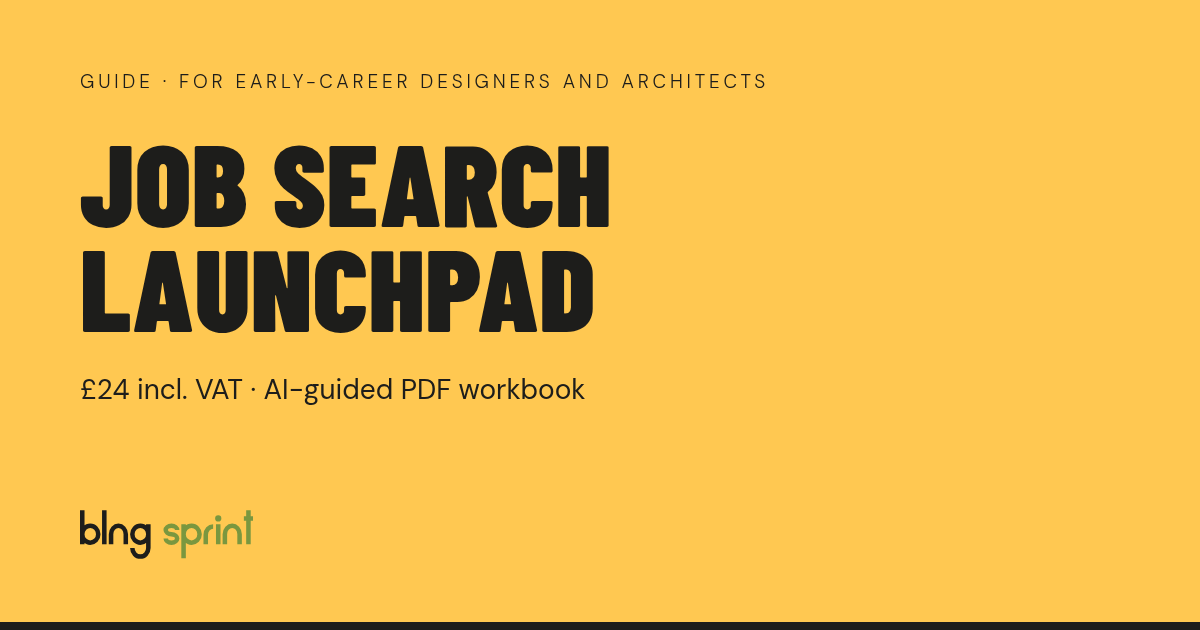
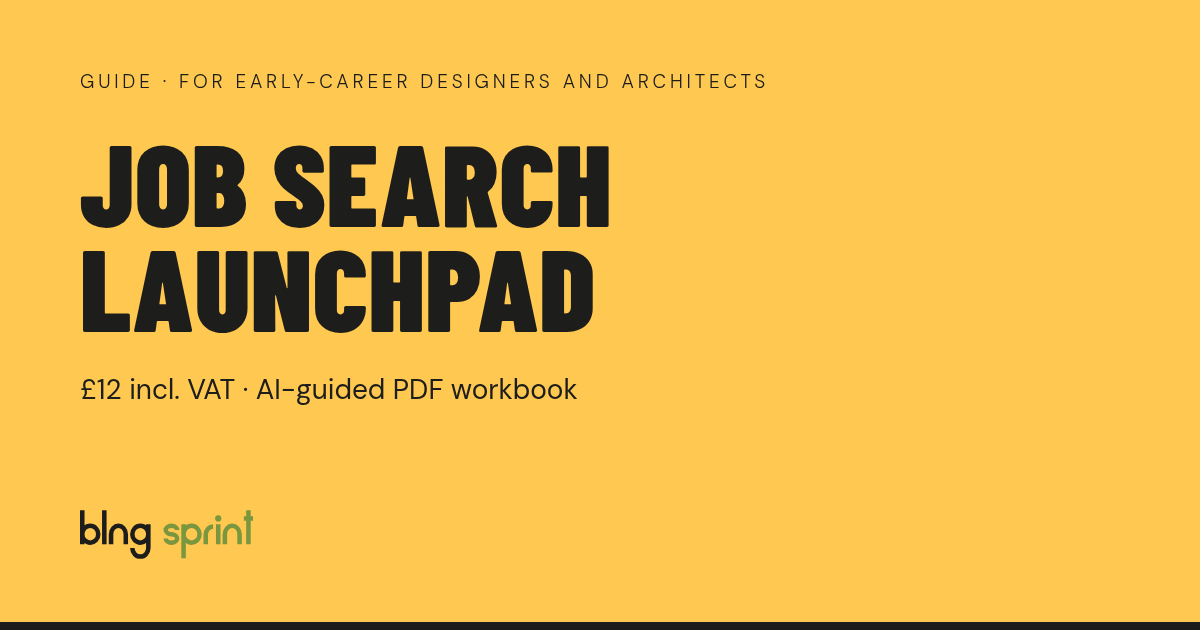
v52: Job Search Launchpad £12 + tighter mobile hero (#40)

Changed region(s): [[0.0617, 0.6032, 0.4933, 0.6635]]

diff --git a/sprints/job-search-launchpad/index.html b/sprints/job-search-launchpad/index.html
@@ -4,12 +4,12 @@
 <meta charset="utf-8">
 <meta name="viewport" content="width=device-width, initial-scale=1">
 <title>Job Search Launchpad: workbook by AA, Bartlett and ETH tutors | blng sprint</title>
-<meta name="description" content="A short guided PDF workbook by architects who have tutored at the AA, the Bartlett and ETH Zürich. For early-career designers and architects: take stock and name your next step. £24 incl. VAT.">
+<meta name="description" content="A short guided PDF workbook by architects who have tutored at the AA, the Bartlett and ETH Zürich. For early-career designers and architects: take stock and name your next step. £12 incl. VAT.">
 <link rel="canonical" href="https://sprint.blng.studio/sprints/job-search-launchpad/">
 <meta property="og:type" content="website">
 <meta property="og:site_name" content="blng sprint">
 <meta property="og:title" content="Job Search Launchpad: workbook by AA, Bartlett and ETH tutors | blng sprint">
-<meta property="og:description" content="A short guided PDF workbook by architects who have tutored at the AA, the Bartlett and ETH Zürich. For early-career designers and architects: take stock and name your next step. £24 incl. VAT.">
+<meta property="og:description" content="A short guided PDF workbook by architects who have tutored at the AA, the Bartlett and ETH Zürich. For early-career designers and architects: take stock and name your next step. £12 incl. VAT.">
 <meta property="og:url" content="https://sprint.blng.studio/sprints/job-search-launchpad/">
 <meta property="og:image" content="https://sprint.blng.studio/assets/og/guide-job-search-launchpad.png">
 <meta property="og:image:width" content="1200">
@@ -72,7 +72,7 @@
    "isPartOf": {
     "@id": "https://sprint.blng.studio/#website"
    },
-   "description": "A short guided PDF workbook by architects who have tutored at the AA, the Bartlett and ETH Zürich. For early-career designers and architects: take stock and name your next step. £24 incl. VAT.",
+   "description": "A short guided PDF workbook by architects who have tutored at the AA, the Bartlett and ETH Zürich. For early-career designers and architects: take stock and name your next step. £12 incl. VAT.",
    "mainEntity": [
     {
      "@type": "Question",
@@ -103,7 +103,7 @@
      "name": "Do I get a VAT receipt?",
      "acceptedAnswer": {
       "@type": "Answer",
-      "text": "Yes. The £24 includes VAT, and you get a receipt by email after you pay."
+      "text": "Yes. The £12 includes VAT, and you get a receipt by email after you pay."
      }
     },
     {
@@ -132,7 +132,7 @@
    "@id": "https://sprint.blng.studio/sprints/job-search-launchpad/#product",
    "name": "Job Search Launchpad",
    "url": "https://sprint.blng.studio/sprints/job-search-launchpad/",
-   "description": "A short guided PDF workbook by architects who have tutored at the AA, the Bartlett and ETH Zürich. For early-career designers and architects: take stock and name your next step. £24 incl. VAT.",
+   "description": "A short guided PDF workbook by architects who have tutored at the AA, the Bartlett and ETH Zürich. For early-career designers and architects: take stock and name your next step. £12 incl. VAT.",
    "category": "PDF workbook",
    "additionalProperty": [
     {
@@ -152,14 +152,14 @@
    "offers": {
     "@type": "Offer",
     "url": "https://sprint.blng.studio/sprints/job-search-launchpad/",
-    "description": "£24 incl. VAT",
-    "price": "24",
+    "description": "£12 incl. VAT",
+    "price": "12",
     "priceCurrency": "GBP",
     "priceSpecification": {
      "@type": "PriceSpecification",
      "priceCurrency": "GBP",
      "valueAddedTaxIncluded": true,
-     "price": "24"
+     "price": "12"
     },
     "availability": "https://schema.org/InStock",
     "seller": {
@@ -203,7 +203,7 @@
 <link rel="apple-touch-icon" href="/apple-touch-icon.png">
 <link rel="preload" href="/assets/fonts/dm-sans-latin-normal.woff2" as="font" type="font/woff2" crossorigin>
 <link rel="stylesheet" href="/assets/tokens.css?v=e18b43dacc">
-<link rel="stylesheet" href="/assets/site.css?v=5b4845be44">
+<link rel="stylesheet" href="/assets/site.css?v=f87eb7f1eb">
 <script src="/assets/site.js" defer></script>
 </head>
 <body class="page-sprint page-guide">
@@ -222,10 +222,11 @@
 <main id="main">
 <header class="hero"><p class="eyebrow">Guide · for early-career designers and architects</p>
 <h1>Get your job search unstuck in 45 minutes.</h1><ul class="client-chips page-clients" aria-label="For" role="list"><li class="client-chip client-emerging-architects" style="--chip-bg:#E6EFF5;--chip-line:#2F6488;--chip-ink:#1F4560">Graduates &amp; early career</li></ul>
+<p>Find out what's holding your applications back, and what to do about it this week.</p>
+<p><strong>£12 incl. VAT · Instant PDF download</strong></p>
+<p class="actions"><a class="btn btn-buy" href="https://payments-eu1.hubspot.com/payments/pzjgHTcVyWwCkY4" rel="noopener">Buy now</a></p>
 <p>Prompts written by architects who have tutored at the AA, the Bartlett and ETH Zürich. Paste them into any chat assistant and it becomes your personal job-search coach. It asks the questions a tutor would and shows you where your applications are falling short.</p>
 <ul class="guide-previews" role="list"><li class="guide-preview"><a class="guide-zoom" href="/assets/img/guides/job-search-launchpad-page-01-large.jpg" data-caption="The cover" aria-haspopup="dialog"><img src="/assets/img/guides/job-search-launchpad-page-01.jpg" width="900" height="1273" alt="The cover of the Job Search Launchpad workbook: the title in large black capitals on yellow" loading="lazy" decoding="async"><span class="guide-zoom-badge" aria-hidden="true"></span><span class="visually-hidden"> (page 1 of 3: open a larger view)</span></a><span class="guide-preview-caption">The cover</span></li><li class="guide-preview"><a class="guide-zoom" href="/assets/img/guides/job-search-launchpad-page-06-large.jpg" data-caption="Exercise 1, Take stock: questions and space to write" aria-haspopup="dialog"><img src="/assets/img/guides/job-search-launchpad-page-06.jpg" width="900" height="1273" alt="The Take stock page of Exercise 1, with questions and space to write about your academic projects, practice experience, interests, feedback you&#x27;ve had and practical constraints" loading="lazy" decoding="async"><span class="guide-zoom-badge" aria-hidden="true"></span><span class="visually-hidden"> (page 2 of 3: open a larger view)</span></a><span class="guide-preview-caption">Exercise 1, Take stock: questions and space to write</span></li><li class="guide-preview"><a class="guide-zoom" href="/assets/img/guides/job-search-launchpad-page-14-large.jpg" data-caption="My starting point: everything on one page" aria-haspopup="dialog"><img src="/assets/img/guides/job-search-launchpad-page-14.jpg" width="900" height="1273" alt="The My starting point page, with space for what you have to work with, possible directions to explore, three questions to investigate and one small next action" loading="lazy" decoding="async"><span class="guide-zoom-badge" aria-hidden="true"></span><span class="visually-hidden"> (page 3 of 3: open a larger view)</span></a><span class="guide-preview-caption">My starting point: everything on one page</span></li></ul>
-<p><strong>£24 incl. VAT · Instant PDF download</strong></p>
-<p class="actions"><a class="btn btn-buy" href="https://payments-eu1.hubspot.com/payments/pzjgHTcVyWwCkY4" rel="noopener">Buy now</a></p>
 </header><section><h2>Who it's for</h2>
 <p>Graduates, Part 1 and Part 2 students and early-career designers and architects who aren't sure where to start their job search. If you're about to rewrite your portfolio or send another application, the workbook helps you take stock first. It's reflection, not careers advice: you do the thinking, in your own words.</p>
 </section><section><h2>What's inside</h2>
@@ -244,7 +245,7 @@
 </ul>
 </section><section><h2>How it works</h2>
 <ol>
-<li><strong>Pay securely.</strong> £24 incl. VAT, by card. Buy now takes you to HubSpot's secure checkout page.</li>
+<li><strong>Pay securely.</strong> £12 incl. VAT, by card. Buy now takes you to HubSpot's secure checkout page.</li>
 <li><strong>Download it straight away.</strong> After you pay, you go straight to the page where you download the PDF.</li>
 <li><strong>Work through it in one sitting.</strong> About 30–45 minutes, with a pen, your CV and portfolio (or a list of your projects) and any chat assistant.</li>
 </ol>
@@ -265,7 +266,7 @@
 </details>
 <details>
 <summary>Do I get a VAT receipt?</summary>
-<p>Yes. The £24 includes VAT, and you get a receipt by email after you pay.</p>
+<p>Yes. The £12 includes VAT, and you get a receipt by email after you pay.</p>
 </details>
 <details>
 <summary>How do I get the file?</summary>
@@ -276,7 +277,7 @@
 <p>The workbook is digital content, and you get it straight away. By buying it, you agree to immediate access and acknowledge that you lose your 14-day right to cancel once the download starts. If the file is faulty or won't open, email <a href="mailto:info@blng.studio">info@blng.studio</a> and we'll replace it. See our <a href="/terms/#digital-products">terms</a>.</p>
 </details>
 </section><section><h2 id="buy">Get the workbook</h2>
-<p>Pay £24 incl. VAT on HubSpot's secure checkout, then go straight to your PDF download.</p>
+<p>Pay £12 incl. VAT on HubSpot's secure checkout, then go straight to your PDF download.</p>
 <p class="actions"><a class="btn btn-buy" href="https://payments-eu1.hubspot.com/payments/pzjgHTcVyWwCkY4">Buy the workbook</a></p></section>
 </main>
 <footer class="site-footer">

diff --git a/sprints/index.html b/sprints/index.html
@@ -82,7 +82,7 @@
 <link rel="apple-touch-icon" href="/apple-touch-icon.png">
 <link rel="preload" href="/assets/fonts/dm-sans-latin-normal.woff2" as="font" type="font/woff2" crossorigin>
 <link rel="stylesheet" href="/assets/tokens.css?v=e18b43dacc">
-<link rel="stylesheet" href="/assets/site.css?v=5b4845be44">
+<link rel="stylesheet" href="/assets/site.css?v=f87eb7f1eb">
 <script src="/assets/site.js" defer></script>
 </head>
 <body class="page-default">
@@ -240,7 +240,7 @@
   <g fill="none" stroke="#1D1D1B" stroke-width="1.5" stroke-linecap="round">
     <path class="th-draw" style="--d:1.2s" pathLength="1" stroke-dasharray="1" d="M75 154h46"/>
   </g>
-</svg></div></div><div class="tile-body"><p class="tile-summary">Not sure where to start your job search? A short guided workbook by architects who have tutored at the AA, the Bartlett and ETH Zürich.</p><p class="tile-for"><span class="tile-for-label">For:</span> Graduates, Part 1 and Part 2 students and early-career designers and architects starting a job search.</p><p class="tile-meta">£24 incl. VAT</p><p class="tile-cta"><span>See the guide</span> <span class="tile-arrow" aria-hidden="true">→</span></p></div></a></li></ul>
+</svg></div></div><div class="tile-body"><p class="tile-summary">Not sure where to start your job search? A short guided workbook by architects who have tutored at the AA, the Bartlett and ETH Zürich.</p><p class="tile-for"><span class="tile-for-label">For:</span> Graduates, Part 1 and Part 2 students and early-career designers and architects starting a job search.</p><p class="tile-meta">£12 incl. VAT</p><p class="tile-cta"><span>See the guide</span> <span class="tile-arrow" aria-hidden="true">→</span></p></div></a></li></ul>
 </header><section><h2>Not sure which sprint fits?</h2>
 <p>Tell us about the decision you're facing. In a free 20-minute call we'll check whether a sprint fits.</p>
 <p class="actions"><a class="btn btn-solid" href="https://meetings-eu1.hubspot.com/leo-bieling" rel="noopener" target="_blank">Book a free intro call</a></p></section>

diff --git a/index.html b/index.html
@@ -127,7 +127,7 @@
 <link rel="apple-touch-icon" href="/apple-touch-icon.png">
 <link rel="preload" href="/assets/fonts/dm-sans-latin-normal.woff2" as="font" type="font/woff2" crossorigin>
 <link rel="stylesheet" href="/assets/tokens.css?v=e18b43dacc">
-<link rel="stylesheet" href="/assets/site.css?v=5b4845be44">
+<link rel="stylesheet" href="/assets/site.css?v=f87eb7f1eb">
 <script src="/assets/site.js" defer></script>
 </head>
 <body class="page-home">
@@ -290,7 +290,7 @@
   <g fill="none" stroke="#1D1D1B" stroke-width="1.5" stroke-linecap="round">
     <path class="th-draw" style="--d:1.2s" pathLength="1" stroke-dasharray="1" d="M75 154h46"/>
   </g>
-</svg></div></div><div class="tile-body"><p class="tile-summary">Not sure where to start your job search? A short guided workbook by architects who have tutored at the AA, the Bartlett and ETH Zürich.</p><p class="tile-for"><span class="tile-for-label">For:</span> Graduates, Part 1 and Part 2 students and early-career designers and architects starting a job search.</p><p class="tile-meta">£24 incl. VAT</p><p class="tile-cta"><span>See the guide</span> <span class="tile-arrow" aria-hidden="true">→</span></p></div></a></li></ul>
+</svg></div></div><div class="tile-body"><p class="tile-summary">Not sure where to start your job search? A short guided workbook by architects who have tutored at the AA, the Bartlett and ETH Zürich.</p><p class="tile-for"><span class="tile-for-label">For:</span> Graduates, Part 1 and Part 2 students and early-career designers and architects starting a job search.</p><p class="tile-meta">£12 incl. VAT</p><p class="tile-cta"><span>See the guide</span> <span class="tile-arrow" aria-hidden="true">→</span></p></div></a></li></ul>
 <p class="actions"><a class="btn" href="/sprints/">See all sprints →</a></p>
 </section><section><h2>How a sprint works</h2>
 <ol>

diff --git a/assets/site.css b/assets/site.css
@@ -496,5 +496,13 @@ html.zoom-open { overflow: hidden; }
     scroll-padding-left: var(--gutter-left); -webkit-overflow-scrolling: touch; }
   .guide-preview { flex: 0 0 78%; scroll-snap-align: start; }
   .page-guide main .btn-buy, .page-guide-download main .btn-download { display: flex; justify-content: center; width: 100%; min-height: 52px; box-sizing: border-box; }
+  /* v52: tighter Job Search Launchpad hero on phones so headline, walk-away line, price, Buy now and the start of a preview sit above the fold */
+  .page-guide main > header.hero { padding-top: 12px; padding-bottom: 28px; }
+  .page-guide main > header.hero > p:not(.eyebrow):not(.actions) { font-size: 1.05rem; line-height: 1.45; margin: 10px 0 14px; }
+  .page-guide main > header.hero > p.actions { margin: 12px 0 14px; }
+  .page-guide main > header.hero .guide-previews { margin: 8px 0 0; }
+  .page-guide main > header.hero .guide-preview { flex: 0 0 72%; }
+  .page-guide main > header.hero .guide-preview-caption { display: none; }
+
   .page-guide-download main .btn-book-outline { min-height: 48px; display: inline-flex; align-items: center; }
 }

diff --git a/guides/download/job-search-launchpad-qndt6u/index.html b/guides/download/job-search-launchpad-qndt6u/index.html
@@ -23,7 +23,7 @@
 <link rel="apple-touch-icon" href="/apple-touch-icon.png">
 <link rel="preload" href="/assets/fonts/dm-sans-latin-normal.woff2" as="font" type="font/woff2" crossorigin>
 <link rel="stylesheet" href="/assets/tokens.css?v=e18b43dacc">
-<link rel="stylesheet" href="/assets/site.css?v=5b4845be44">
+<link rel="stylesheet" href="/assets/site.css?v=f87eb7f1eb">
 <script src="/assets/site.js" defer></script>
 </head>
 <body class="page-default page-download page-guide-download">

diff --git a/legal/index.html b/legal/index.html
@@ -82,7 +82,7 @@
 <link rel="apple-touch-icon" href="/apple-touch-icon.png">
 <link rel="preload" href="/assets/fonts/dm-sans-latin-normal.woff2" as="font" type="font/woff2" crossorigin>
 <link rel="stylesheet" href="/assets/tokens.css?v=e18b43dacc">
-<link rel="stylesheet" href="/assets/site.css?v=5b4845be44">
+<link rel="stylesheet" href="/assets/site.css?v=f87eb7f1eb">
 <script src="/assets/site.js" defer></script>
 </head>
 <body class="page-legal page-legal-notice">

diff --git a/about/index.html b/about/index.html
@@ -24,7 +24,7 @@
 <link rel="apple-touch-icon" href="/apple-touch-icon.png">
 <link rel="preload" href="/assets/fonts/dm-sans-latin-normal.woff2" as="font" type="font/woff2" crossorigin>
 <link rel="stylesheet" href="/assets/tokens.css?v=e18b43dacc">
-<link rel="stylesheet" href="/assets/site.css?v=5b4845be44">
+<link rel="stylesheet" href="/assets/site.css?v=f87eb7f1eb">
 <script src="/assets/site.js" defer></script>
 </head>
 <body class="page-default page-redirect">

diff --git a/free-checklist/index.html b/free-checklist/index.html
@@ -24,7 +24,7 @@
 <link rel="apple-touch-icon" href="/apple-touch-icon.png">
 <link rel="preload" href="/assets/fonts/dm-sans-latin-normal.woff2" as="font" type="font/woff2" crossorigin>
 <link rel="stylesheet" href="/assets/tokens.css?v=e18b43dacc">
-<link rel="stylesheet" href="/assets/site.css?v=5b4845be44">
+<link rel="stylesheet" href="/assets/site.css?v=f87eb7f1eb">
 <script src="/assets/site.js" defer></script>
 </head>
 <body class="page-default page-redirect">

diff --git a/free-resources/download/nursery-checklist-7bicy5/index.html b/free-resources/download/nursery-checklist-7bicy5/index.html
@@ -23,7 +23,7 @@
 <link rel="apple-touch-icon" href="/apple-touch-icon.png">
 <link rel="preload" href="/assets/fonts/dm-sans-latin-normal.woff2" as="font" type="font/woff2" crossorigin>
 <link rel="stylesheet" href="/assets/tokens.css?v=e18b43dacc">
-<link rel="stylesheet" href="/assets/site.css?v=5b4845be44">
+<link rel="stylesheet" href="/assets/site.css?v=f87eb7f1eb">
 <script src="/assets/site.js" defer></script>
 </head>
 <body class="page-default page-download">

diff --git a/free-resources/download/office-floor-scorecard-drmjhd/index.html b/free-resources/download/office-floor-scorecard-drmjhd/index.html
@@ -23,7 +23,7 @@
 <link rel="apple-touch-icon" href="/apple-touch-icon.png">
 <link rel="preload" href="/assets/fonts/dm-sans-latin-normal.woff2" as="font" type="font/woff2" crossorigin>
 <link rel="stylesheet" href="/assets/tokens.css?v=e18b43dacc">
-<link rel="stylesheet" href="/assets/site.css?v=5b4845be44">
+<link rel="stylesheet" href="/assets/site.css?v=f87eb7f1eb">
 <script src="/assets/site.js" defer></script>
 </head>
 <body class="page-default page-download">

diff --git a/free-resources/download/portfolio-self-check-89th9y/index.html b/free-resources/download/portfolio-self-check-89th9y/index.html
@@ -23,7 +23,7 @@
 <link rel="apple-touch-icon" href="/apple-touch-icon.png">
 <link rel="preload" href="/assets/fonts/dm-sans-latin-normal.woff2" as="font" type="font/woff2" crossorigin>
 <link rel="stylesheet" href="/assets/tokens.css?v=e18b43dacc">
-<link rel="stylesheet" href="/assets/site.css?v=5b4845be44">
+<link rel="stylesheet" href="/assets/site.css?v=f87eb7f1eb">
 <script src="/assets/site.js" defer></script>
 </head>
 <body class="page-default page-download">

diff --git a/free-resources/download/site-first-look-qc17ak/index.html b/free-resources/download/site-first-look-qc17ak/index.html
@@ -23,7 +23,7 @@
 <link rel="apple-touch-icon" href="/apple-touch-icon.png">
 <link rel="preload" href="/assets/fonts/dm-sans-latin-normal.woff2" as="font" type="font/woff2" crossorigin>
 <link rel="stylesheet" href="/assets/tokens.css?v=e18b43dacc">
-<link rel="stylesheet" href="/assets/site.css?v=5b4845be44">
+<link rel="stylesheet" href="/assets/site.css?v=f87eb7f1eb">
 <script src="/assets/site.js" defer></script>
 </head>
 <body class="page-default page-download">
